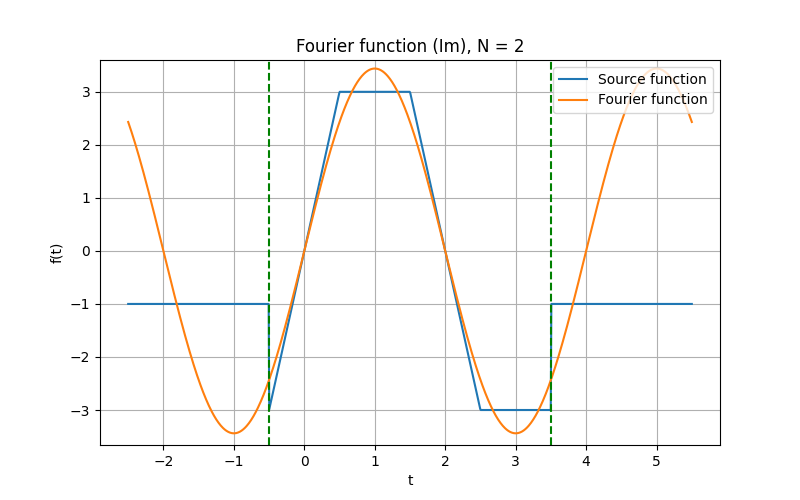
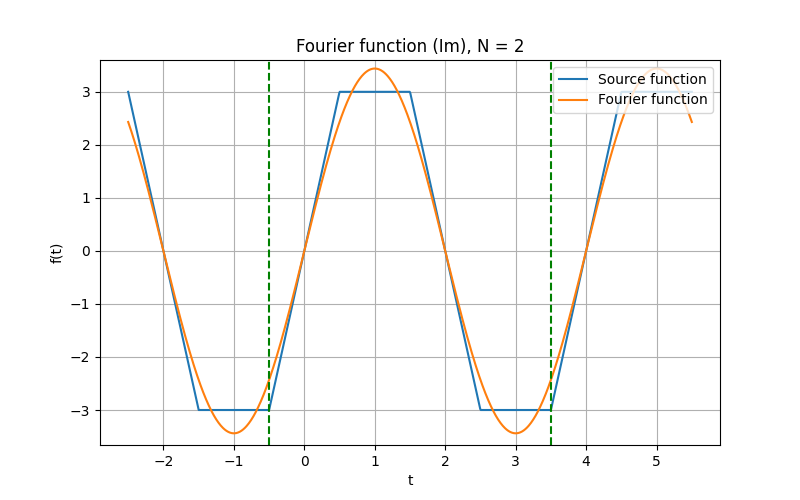
upd

diff --git a/Lab 1/fourier.py b/Lab 1/fourier.py
@@ -154,21 +154,14 @@ def calc_and_plot_parametric(func, t0, T, N, title):
 
 
 def perseval_check(func, N):
-    norm_squared = dot_product(func, func, -np.pi, np.pi)
-    a, b = fourier(func, -np.pi, 2 * np.pi, N)
-    c = fourier_exp(func, -np.pi, 2 * np.pi, N)
+    abs_func = np.vectorize(lambda x: abs(func(x)))
+    norm_squared = dot_product(abs_func, abs_func, -np.pi, np.pi)
+    a, b = fourier(abs_func, -np.pi, 2 * np.pi, N)
+    c = fourier_exp(abs_func, -np.pi, 2 * np.pi, N)
     c_sum = 2 * np.pi * sum(abs(c[i]) ** 2 for i in range(len(c)))
     ab_sum = np.pi * (a[0] ** 2 / 2 + sum([a[i] ** 2 + b[i] ** 2 for i in range(1, N + 1)]))
     print(f'Norm squared: {norm_squared:.5f}, \tSum of |c_i|^2: {c_sum:.5f}, \tSum of |a_i|^2 + |b_i|^2: {ab_sum:.5f}')
-
-
-def perseval_check_exp(func, N, t0, T):
-    f = np.vectorize(lambda x: abs(func(x)))
-    norm_squared = dot_product(f, f, -np.pi, np.pi)
-    c = fourier_exp(func, -np.pi, 2 * np.pi, N)
-    c_sum = 2 * np.pi * sum(abs(c[i]) ** 2 for i in range(len(c)))
-    print(f'Norm squared: {norm_squared:.5f}, \tSum of |c_i|^2: {c_sum:.5f}')
-
+    return abs(norm_squared - c_sum), abs(norm_squared - ab_sum)
 
 R = 3
 T = 4
@@ -201,69 +194,61 @@ def func5(t):
 # Example 1
 func = np.vectorize(lambda x: 1 if 0 <= (x - 1) % 3 < 1 else 2)
 print("Func 1")
-# a, b = fourier(func, 1, 3, 3)
-# print_fourier_coefficients(a, b)
-# c = fourier_exp(func, 1, 3, 3)
-# print_fourier_exp_coefficients(c)
-# perseval_check(func, 300)
-# calc_and_plot(func, 1, 3, [1, 2, 5, 15, 30], './media/plots/func_1')
-# calc_and_plot_exp(func, 1, 3, [1, 2, 5, 15, 30], './media/plots/func_1_exp')
-# calc_and_plot(func, -np.pi, 2 * np.pi, [1, 2, 5, 15, 30], './media/plots/func')
-# calc_and_plot_exp(func, -np.pi, 2 * np.pi, [1, 2, 5, 15, 30], './media/plots/func')
+a, b = fourier(func, 1, 3, 3)
+print_fourier_coefficients(a, b)
+c = fourier_exp(func, 1, 3, 3)
+print_fourier_exp_coefficients(c)
+perseval_check(func, 300)
+calc_and_plot(func, 1, 3, [1, 2, 5, 15, 30], './media/plots/func_1')
+calc_and_plot_exp(func, 1, 3, [1, 2, 5, 15, 30], './media/plots/func_1_exp')
 
 # Example 2
 func = np.vectorize(lambda x: np.sin(5/2 * np.cos(x)))
 print("Func 2")
-# a, b = fourier(func, -np.pi, 2*np.pi, 3)
-# print_fourier_coefficients(a, b)
-# c = fourier_exp(func, -np.pi, 2*np.pi, 3)
-# print_fourier_exp_coefficients(c)
-# perseval_check(func, 300)
-# calc_and_plot(func, -np.pi, 2 * np.pi, [1, 2, 3, 4, 5], './media/plots/func')
-# calc_and_plot_exp(func, -np.pi, 2 * np.pi, [1, 2, 3, 4, 5], './media/plots/func')
+a, b = fourier(func, -np.pi, 2*np.pi, 3)
+print_fourier_coefficients(a, b)
+c = fourier_exp(func, -np.pi, 2*np.pi, 3)
+print_fourier_exp_coefficients(c)
+perseval_check(func, 300)
+calc_and_plot(func, -np.pi, 2 * np.pi, [1, 2, 3, 4, 5], './media/plots/func')
+calc_and_plot_exp(func, -np.pi, 2 * np.pi, [1, 2, 3, 4, 5], './media/plots/func')
 
 # # Example 3
 func = np.vectorize(lambda x: abs(np.cos(2 * x) * np.sin(x)))
 print("Func 3")
-# a, b = fourier(func, 0, np.pi, 3)
-# print_fourier_coefficients(a, b)
-# c = fourier_exp(func, 0, np.pi, 3)
-# print_fourier_exp_coefficients(c)
-# perseval_check(func, 300)
-# calc_and_plot(func, 0, np.pi, [1, 2, 3, 4, 5], './media/plots/func_3')
-# calc_and_plot_exp(func, 0, np.pi, [1, 2, 3, 4, 5], './media/plots/func_3_exp')
-# calc_and_plot(func, -np.pi, 2 * np.pi, [1, 2, 3, 4, 5], './media/plots/func')
-# calc_and_plot_exp(func, -np.pi, 2 * np.pi, [1, 2, 3, 4, 5], './media/plots/func')
-
+a, b = fourier(func, 0, np.pi, 3)
+print_fourier_coefficients(a, b)
+c = fourier_exp(func, 0, np.pi, 3)
+print_fourier_exp_coefficients(c)
+perseval_check(func, 300)
+calc_and_plot(func, 0, np.pi, [1, 2, 3, 4, 5], './media/plots/func_3')
+calc_and_plot_exp(func, 0, np.pi, [1, 2, 3, 4, 5], './media/plots/func_3_exp')
 
 # # Example 4
 func = np.vectorize(lambda x: np.sin(x) ** 3 - np.cos(x))
 print("Func 4")
-# a, b = fourier(func, 0, 2 * np.pi, 3)
-# print_fourier_coefficients(a, b)
-# c = fourier_exp(func, 0, 2 * np.pi, 3)
-# print_fourier_exp_coefficients(c)
-# perseval_check(func, 300)
-# calc_and_plot(func, 0, 2 * np.pi, [1, 2, 3, 4, 5], './media/plots/func_4') 
-# calc_and_plot_exp(func, 0, 2 * np.pi, [1, 2, 3, 4, 5], './media/plots/func_4_exp')
-# calc_and_plot(func, -np.pi, 2 * np.pi, [1, 2, 3, 4, 5], './media/plots/func') 
-# calc_and_plot_exp(func, -np.pi, 2 * np.pi, [1, 2, 3, 4, 5], './media/plots/func')
-
+a, b = fourier(func, 0, 2 * np.pi, 3)
+print_fourier_coefficients(a, b)
+c = fourier_exp(func, 0, 2 * np.pi, 3)
+print_fourier_exp_coefficients(c)
+perseval_check(func, 300)
+calc_and_plot(func, 0, 2 * np.pi, [1, 2, 3, 4, 5], './media/plots/func_4') 
+calc_and_plot_exp(func, 0, 2 * np.pi, [1, 2, 3, 4, 5], './media/plots/func_4_exp')
 
 # Example 5
 func = np.vectorize(func5)
-perseval_check_exp(func, 300, -T/8, T)
-# c = fourier_exp(func, -T/8, T, 3)
-# print_fourier_exp_coefficients(c)
+perseval_check(func, 300)
+c = fourier_exp(func, -T/8, T, 3)
+print_fourier_exp_coefficients(c)
 calc_and_plot_parametric(func, -T/8, T, [1, 2, 3, 5, 10], './media/plots/func_5')
 
-# plot_func(lambda x: func(x).real, lambda x: func(x).real, -T/8, T, 'Source function (Re)', f'./media/plots/func_5_real')
-# plot_func(lambda x: func(x).imag, lambda x: func(x).imag, -T/8, T, 'Source function (Im)', f'./media/plots/func_5_imag')
+plot_func(lambda x: func(x).real, lambda x: func(x).real, -T/8, T, 'Source function (Re)', f'./media/plots/func_5_real')
+plot_func(lambda x: func(x).imag, lambda x: func(x).imag, -T/8, T, 'Source function (Im)', f'./media/plots/func_5_imag')
 
-# for n in [1, 2, 3, 5, 10]:
-#     fourier_func = fourierise_exp(func, -T/8, T, n)
-#     plot_func(lambda x: func(x).real, lambda x: fourier_func(x).real, -T/8, T, f'Fourier function (Re), N = {n}', f'./media/plots/func_5_real_N_{n}')
-#     plot_func(lambda x: func(x).imag, lambda x: fourier_func(x).imag, -T/8, T, f'Fourier function (Im), N = {n}', f'./media/plots/func_5_imag_N_{n}')
+for n in [1, 2, 3, 5, 10]:
+    fourier_func = fourierise_exp(func, -T/8, T, n)
+    plot_func(lambda x: func(x).real, lambda x: fourier_func(x).real, -T/8, T, f'Fourier function (Re), N = {n}', f'./media/plots/func_5_real_N_{n}')
+    plot_func(lambda x: func(x).imag, lambda x: fourier_func(x).imag, -T/8, T, f'Fourier function (Im), N = {n}', f'./media/plots/func_5_imag_N_{n}')
 
 
 plt.show()
